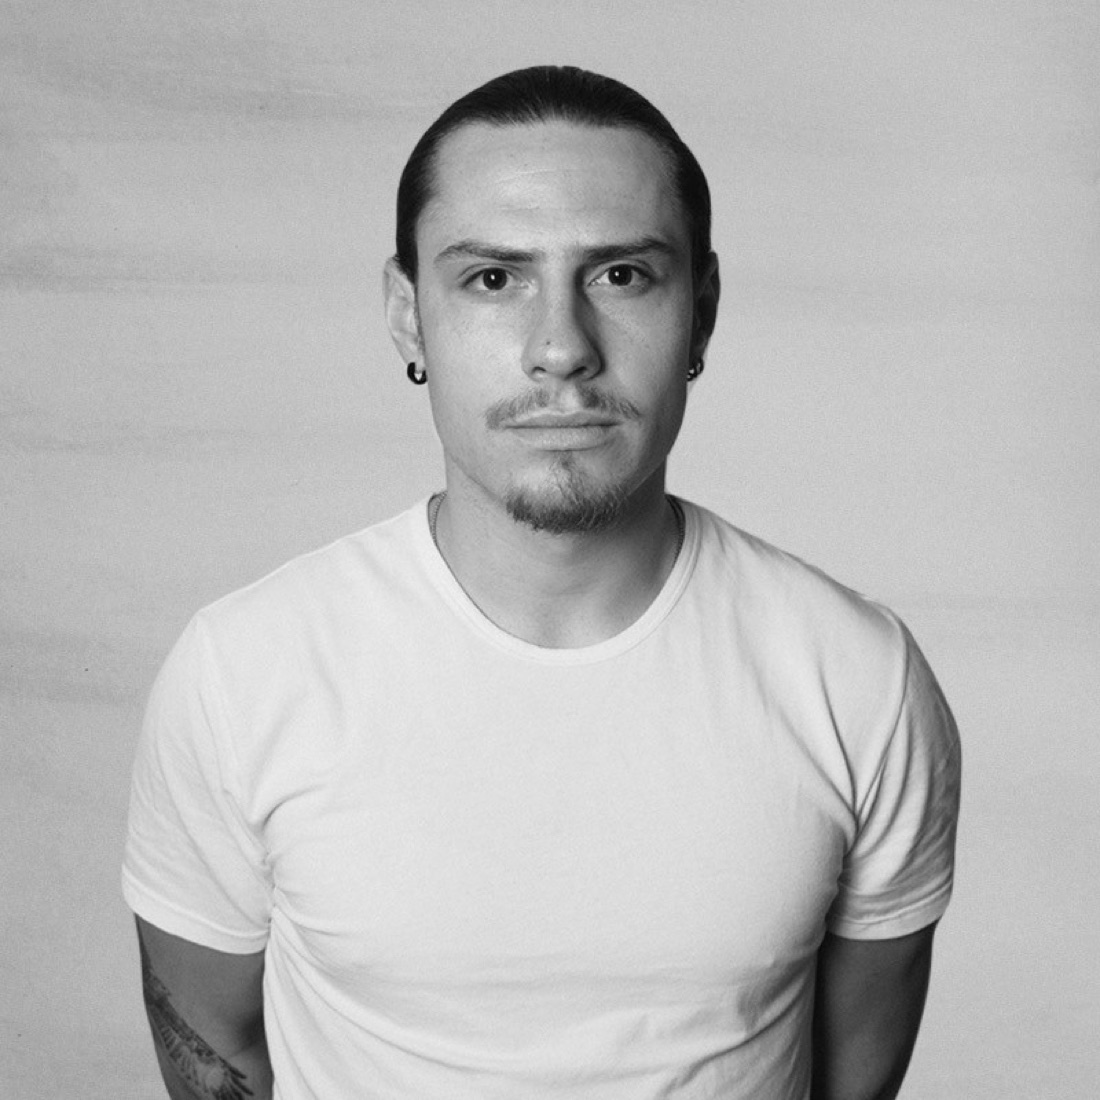
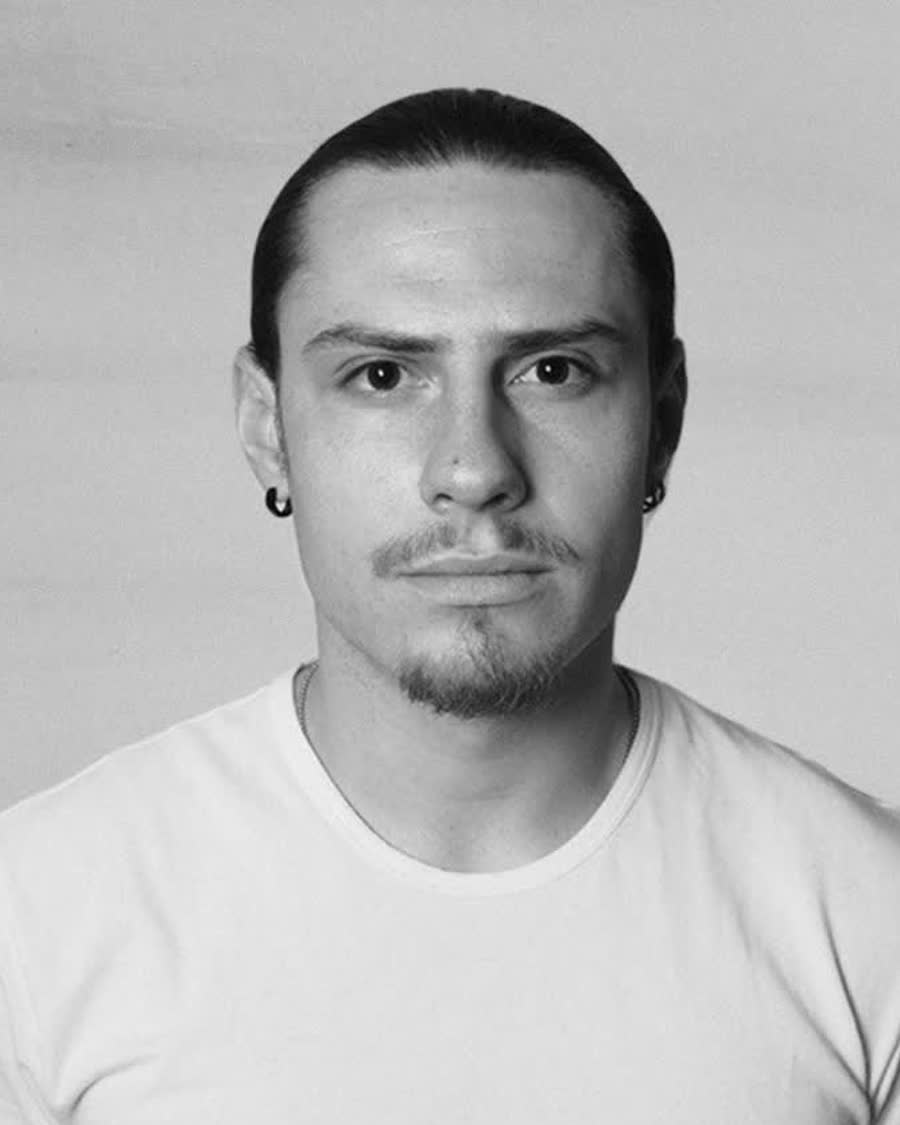
Team-Portraits auf gleiche Kopfhoehe zugeschnitten, OACE-Video ohne Play-Button
- Team: alle drei Portraits neu auf 4:5 (900x1125) zugeschnitten, Augen-
  linie/Kopfgroesse angeglichen (Marco tiefer/groesser -> ausgerichtet).
  Mobile-Kacheln bleiben 4:5 (vorher 3:2 -> haette Koepfe beschnitten).
- OACE-Video: nativen Play-Button unterdrueckt (::-webkit-media-controls*)
  und Abspielen per IntersectionObserver erzwungen (muted als Property,
  playsinline); Fallback-Start bei erster Interaktion.
- Cache-Version v=20260720.

diff --git a/js/main.js b/js/main.js
@@ -154,6 +154,57 @@
   }
 
   /* --------------------------------------------------------------------- *
+   * Work-Videos: zuverlässig stumm abspielen, sobald im Viewport
+   * (verhindert den nativen Play-Button, wenn Autoplay geblockt wird)
+   * --------------------------------------------------------------------- */
+  (function () {
+    var vids = doc.querySelectorAll(".work-card__video");
+    if (!vids.length) return;
+
+    function play(v) {
+      var p = v.play();
+      if (p && p.catch) p.catch(function () {});
+    }
+
+    Array.prototype.forEach.call(vids, function (v) {
+      // muted als Property (nicht nur Attribut) → erlaubt Autoplay überall
+      v.muted = true;
+      v.defaultMuted = true;
+      v.playsInline = true;
+      v.setAttribute("muted", "");
+      v.removeAttribute("controls");
+    });
+
+    if ("IntersectionObserver" in window) {
+      var vio = new IntersectionObserver(
+        function (entries) {
+          entries.forEach(function (e) {
+            if (e.isIntersecting) play(e.target);
+            else e.target.pause();
+          });
+        },
+        { threshold: 0.2 }
+      );
+      Array.prototype.forEach.call(vids, function (v) {
+        vio.observe(v);
+      });
+    } else {
+      Array.prototype.forEach.call(vids, play);
+    }
+
+    // Fallback: bei erster Nutzer-Interaktion nachstarten (sehr strikte Policies)
+    var kick = function () {
+      Array.prototype.forEach.call(vids, function (v) {
+        if (v.paused) play(v);
+      });
+      doc.removeEventListener("pointerdown", kick);
+      doc.removeEventListener("touchstart", kick);
+    };
+    doc.addEventListener("pointerdown", kick, { passive: true });
+    doc.addEventListener("touchstart", kick, { passive: true });
+  })();
+
+  /* --------------------------------------------------------------------- *
    * Custom Cursor — rAF-geführt, kein CSS-Transform-Transition (kein Lag)
    * --------------------------------------------------------------------- */
   (function () {

diff --git a/index.html b/index.html
@@ -9,8 +9,8 @@
       content="Neue Welt Agentur ist alles was noch nicht existiert und erschaffen werden darf. Ein Kollektiv, das die Verantwortung hat, die Welt zu formen."
     />
     <meta name="theme-color" content="#ff2c3b" />
-    <link rel="icon" href="assets/svg/favicon.svg?v=20260719" type="image/svg+xml" />
-    <link rel="apple-touch-icon" href="assets/svg/favicon.svg?v=20260719" />
+    <link rel="icon" href="assets/svg/favicon.svg?v=20260720" type="image/svg+xml" />
+    <link rel="apple-touch-icon" href="assets/svg/favicon.svg?v=20260720" />
 
     <!-- Open Graph / Social -->
     <meta property="og:type" content="website" />
@@ -31,7 +31,7 @@
       href="assets/fonts/eb-garamond-latin.woff2"
       crossorigin
     />
-    <link rel="stylesheet" href="css/style.css?v=20260719" />
+    <link rel="stylesheet" href="css/style.css?v=20260720" />
   </head>
   <body>
     <!-- Custom Cursor -->
@@ -185,7 +185,7 @@
         <div class="team__grid">
           <article class="team-card">
             <div class="team-card__photo">
-              <img src="assets/img/team/daryl.jpg" alt="Daryl Kastenholz" width="1100" height="1100" loading="lazy" />
+              <img src="assets/img/team/daryl.jpg" alt="Daryl Kastenholz" width="900" height="1125" loading="lazy" />
             </div>
             <h3 class="team-card__name">Daryl Kastenholz</h3>
             <p class="team-card__role">Creative Director &amp; Partner</p>
@@ -194,7 +194,7 @@
 
           <article class="team-card">
             <div class="team-card__photo">
-              <img src="assets/img/team/marco.jpg" alt="Marco Pröfrock" width="1100" height="1100" loading="lazy" />
+              <img src="assets/img/team/marco.jpg" alt="Marco Pröfrock" width="900" height="1125" loading="lazy" />
             </div>
             <h3 class="team-card__name">Marco Pröfrock</h3>
             <p class="team-card__role">Creative Director &amp; Partner</p>
@@ -203,7 +203,7 @@
 
           <article class="team-card">
             <div class="team-card__photo">
-              <img src="assets/img/team/david.jpg" alt="David Bosch" width="1100" height="1100" loading="lazy" />
+              <img src="assets/img/team/david.jpg" alt="David Bosch" width="900" height="1125" loading="lazy" />
             </div>
             <h3 class="team-card__name">David Bosch</h3>
             <p class="team-card__role">Creative Director &amp; Partner</p>
@@ -232,6 +232,6 @@
       <p class="site-footer__copy">© <span id="year">2026</span> Neue Welt Agentur</p>
     </footer>
 
-    <script src="js/main.js?v=20260719"></script>
+    <script src="js/main.js?v=20260720"></script>
   </body>
 </html>

diff --git a/css/style.css b/css/style.css
@@ -507,6 +507,15 @@ button {
 .work-card:hover .work-card__video {
   transform: scale(1.05);
 }
+/* nativen Play-Button/Overlay (v. a. iOS/Safari) unterdrücken */
+.work-card__video::-webkit-media-controls,
+.work-card__video::-webkit-media-controls-start-playback-button,
+.work-card__video::-webkit-media-controls-play-button,
+.work-card__video::-webkit-media-controls-panel {
+  display: none !important;
+  -webkit-appearance: none;
+  opacity: 0;
+}
 .work-card::after {
   content: "";
   position: absolute;
@@ -800,9 +809,7 @@ button {
     grid-template-columns: 1fr;
     max-width: 26rem;
   }
-  .team-card__photo {
-    aspect-ratio: 3 / 2;
-  }
+  /* Portraits bleiben 4:5 (nicht 3:2), sonst werden die Köpfe beschnitten */
 }
 
 @media (min-width: 769px) and (max-width: 1100px) {

diff --git a/datenschutz.html b/datenschutz.html
@@ -6,8 +6,8 @@
     <title>Datenschutz — Neue Welt Agentur</title>
     <meta name="robots" content="noindex" />
     <meta name="theme-color" content="#ff2c3b" />
-    <link rel="icon" href="assets/svg/favicon.svg?v=20260719" type="image/svg+xml" />
-    <link rel="stylesheet" href="css/style.css?v=20260719" />
+    <link rel="icon" href="assets/svg/favicon.svg?v=20260720" type="image/svg+xml" />
+    <link rel="stylesheet" href="css/style.css?v=20260720" />
   </head>
   <body>
     <div class="cursor" aria-hidden="true"></div>
@@ -57,6 +57,6 @@
       </div>
     </main>
 
-    <script src="js/main.js?v=20260719"></script>
+    <script src="js/main.js?v=20260720"></script>
   </body>
 </html>

diff --git a/impressum.html b/impressum.html
@@ -6,8 +6,8 @@
     <title>Impressum — Neue Welt Agentur</title>
     <meta name="robots" content="noindex" />
     <meta name="theme-color" content="#ff2c3b" />
-    <link rel="icon" href="assets/svg/favicon.svg?v=20260719" type="image/svg+xml" />
-    <link rel="stylesheet" href="css/style.css?v=20260719" />
+    <link rel="icon" href="assets/svg/favicon.svg?v=20260720" type="image/svg+xml" />
+    <link rel="stylesheet" href="css/style.css?v=20260720" />
   </head>
   <body>
     <div class="cursor" aria-hidden="true"></div>
@@ -52,6 +52,6 @@
       </div>
     </main>
 
-    <script src="js/main.js?v=20260719"></script>
+    <script src="js/main.js?v=20260720"></script>
   </body>
 </html>

diff --git a/team.html b/team.html
@@ -8,7 +8,7 @@
     <!-- Team ist jetzt Teil des Onepagers -->
     <meta http-equiv="refresh" content="0; url=index.html#team" />
     <link rel="canonical" href="index.html#team" />
-    <link rel="icon" href="assets/svg/favicon.svg?v=20260719" type="image/svg+xml" />
+    <link rel="icon" href="assets/svg/favicon.svg?v=20260720" type="image/svg+xml" />
   </head>
   <body>
     <p><a href="index.html#team">Weiter zum Team →</a></p>